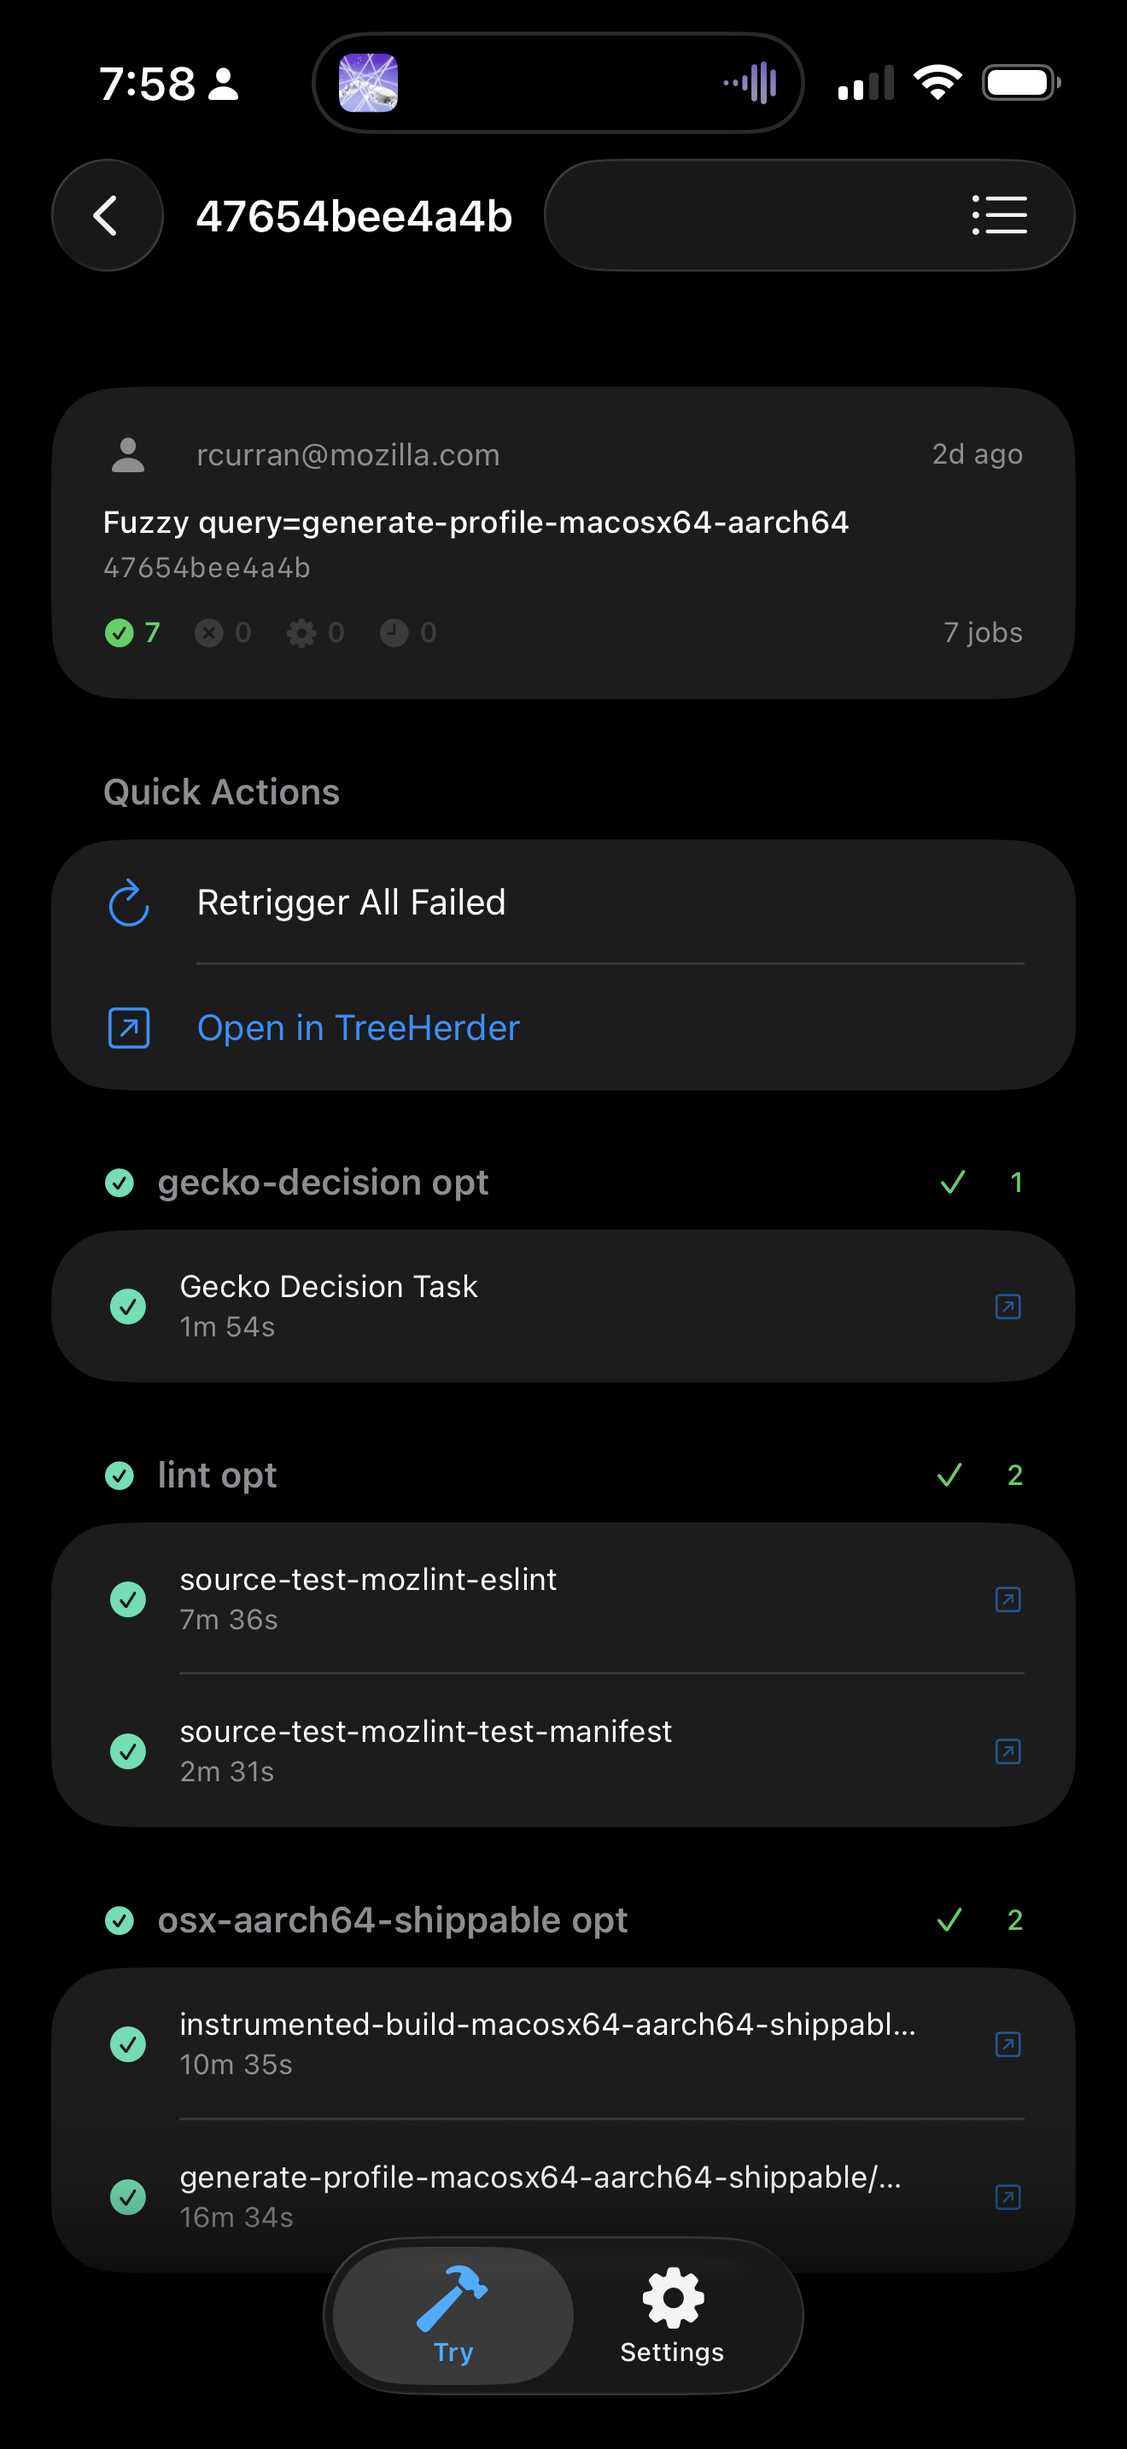
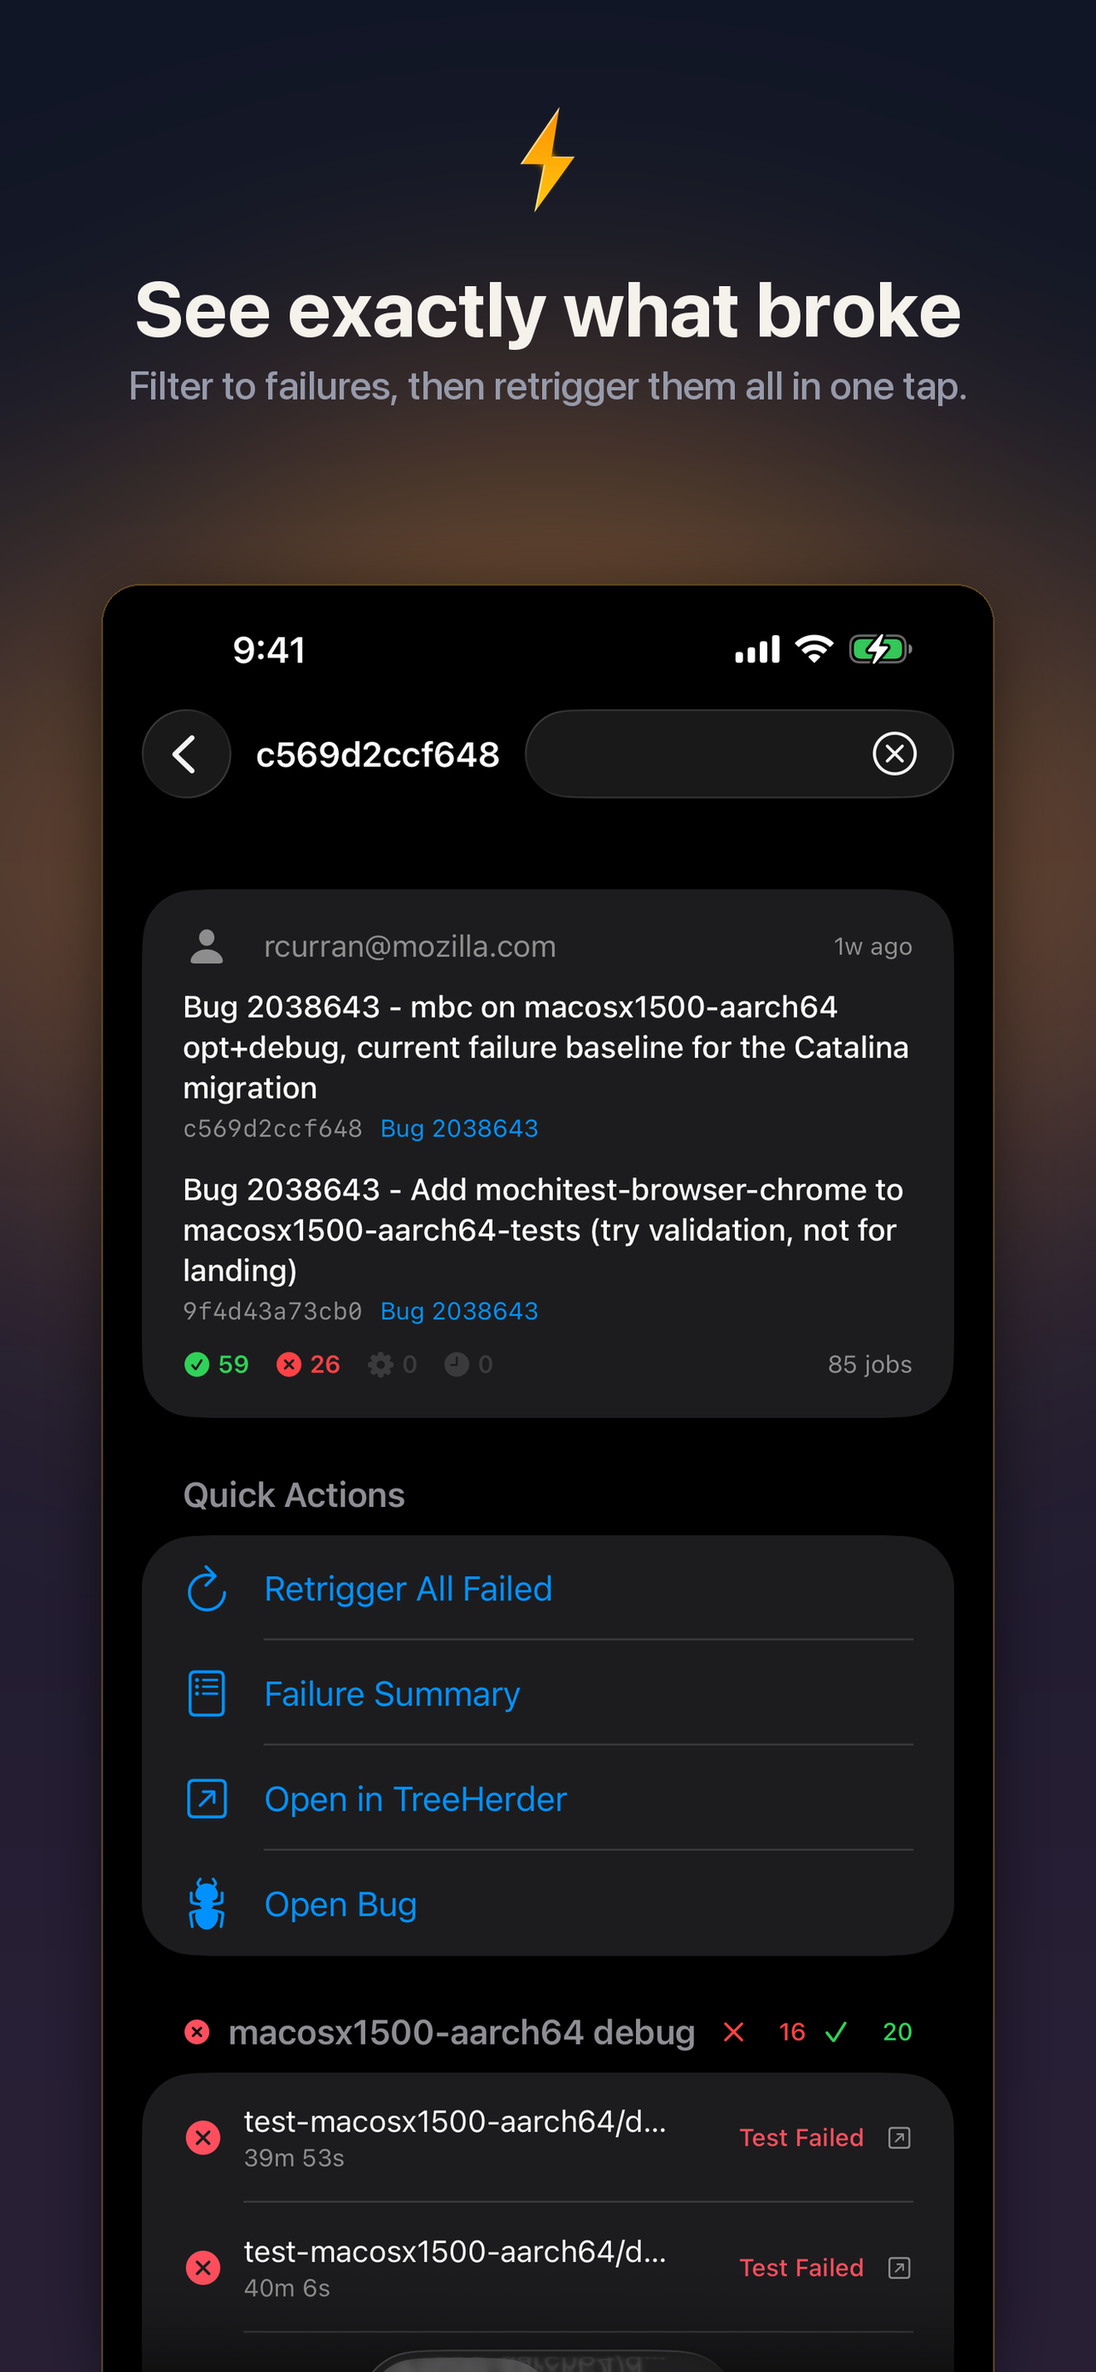
Rewrite the README for the 1.0 App Store launch
BuildWatch Moz shipped to the App Store on 2026-08-24. The README it shipped
with described an app that does not exist: multi-repo push lists across
mozilla-central/autoland/beta/release/esr128, a tree status banner backed by a
TreeStatus.swift that was never written, a BugzillaService.swift and a Bugzilla
API key setting, a MyPushesView.swift, a default-repository preference, and a
tier-2 visibility toggle. None of those are in the tree. The app has two tabs
and reads project/try/ only.

Replace it with a description of what actually shipped, and add the App Store
link, badges, and the five store screenshots (the three committed ones were
build-2 era).

Two things this stops papering over:

- Retrigger All Failed is in the 1.0 binary and cannot work. It POSTs
  unauthenticated to a TreeHerder endpoint that requires a Taskcluster OIDC
  session, and retriggerAllFailed() swallows the throw with `try?`, so the
  button does nothing and says nothing. Documented as such rather than listed
  as a feature.
- perf-and-accessibility-pass is complete, unmerged, and not in the store
  build. It gets its own clearly-labelled Unreleased section covering the
  delta refresh, the nonisolated service, PushSummary, the WCAG-AA palette,
  and the VoiceOver work, so nobody reads those as shipped behaviour.

Drop the MPL-2.0 badge: the repo has no LICENSE file to back it.

diff --git a/README.md b/README.md
@@ -1,61 +1,99 @@
-# BuildWatch
+<p align="center">
+  <img src="docs/app-icon.png" width="110" alt="BuildWatch app icon" />
+</p>
 
-A native iOS app for Mozilla engineers to monitor Firefox CI build status from their phone. Built for sheriffs, on-call engineers, and developers who want real-time build feedback without opening a laptop.
-
-![Platform](https://img.shields.io/badge/platform-iOS%2026%2B-blue)
-![Swift](https://img.shields.io/badge/swift-6-orange)
-![License](https://img.shields.io/badge/license-MPL--2.0-green)
+<h1 align="center">BuildWatch</h1>
 
 <p align="center">
-  <img src="docs/screenshots/try-pushes.png" width="220" alt="Try Pushes" />
-  <img src="docs/screenshots/push-detail.png" width="220" alt="Push Detail" />
-  <img src="docs/screenshots/settings.png" width="220" alt="Settings" />
+  <strong>Your Firefox try pushes, on your phone.</strong><br/>
+  Push to try, close the laptop, get on with your day.
 </p>
-<p align="center"><em>Try Pushes &nbsp;·&nbsp; Push Detail &nbsp;·&nbsp; Settings</em></p>
+
+<p align="center">
+  <a href="https://apps.apple.com/us/app/buildwatch-moz/id6759932755">
+    <img src="https://img.shields.io/badge/App%20Store-Download-0D96F6?logo=apple&logoColor=white" alt="Download on the App Store" />
+  </a>
+  <img src="https://img.shields.io/badge/version-1.0-brightgreen" alt="Version 1.0" />
+  <img src="https://img.shields.io/badge/platform-iOS%2026.2%2B-blue" alt="iOS 26.2+" />
+  <img src="https://img.shields.io/badge/iPhone%20%C2%B7%20iPad-universal-lightgrey" alt="Universal" />
+  <img src="https://img.shields.io/badge/price-free-success" alt="Free" />
+  <img src="https://img.shields.io/badge/dependencies-none-blueviolet" alt="No dependencies" />
+</p>
+
+<p align="center">
+  <a href="https://apps.apple.com/us/app/buildwatch-moz/id6759932755"><strong>Download BuildWatch Moz on the App Store →</strong></a>
+</p>
 
 ---
 
-## Features
+BuildWatch shows you every try push you've made, what's still running, what went red, and
+exactly which tests failed — without opening TreeHerder in a browser. Built for the Mozilla
+engineers who push to try a dozen times a day and don't want to babysit a tab.
 
-### Dashboard
-- Live push list across mozilla-central, autoland, beta, release, and esr128
-- Per-push platform status dots — color coded by worst result (green / red / orange / blue)
-- Failure count badge and animated spinner for in-progress builds
-- Tree status banner when the tree is closed or restricted
-- Pull-to-refresh with last-updated timestamp
-- Quick project switcher in the nav bar
+**Live on the App Store since 24 August 2026.** Free, no account, no tracking, ~1.2 MB.
+Every API it talks to is public, so it works off the corporate network with no VPN.
 
-### Push Detail
-- Full commit messages with clickable bug number links
-- Jobs grouped by platform (linux64, win64, macos, android-arm64, …)
-- Filter by All / Failures / Running
-- Swipe left on any job to retrigger it
-- **Retrigger All Failed** with a single tap
-- **Failure Summary** — groups failed jobs by test name, shows affected job counts and raw error lines from TreeHerder log data
-- All external links (TreeHerder, Taskcluster, Bugzilla) open in an in-app browser — tap Done to return instantly without leaving the app
-- Duration shown for every completed job
+<p align="center">
+  <img src="docs/screenshots/pushes.png" width="215" alt="Try push list with per-platform status dots" />
+  <img src="docs/screenshots/push-detail.png" width="215" alt="Push detail with quick actions and job list" />
+  <img src="docs/screenshots/failure-summary.png" width="215" alt="Failures grouped by test" />
+  <img src="docs/screenshots/watch.png" width="215" alt="Watched pushes marked with a bell" />
+</p>
 
-### My Pushes
-- Filtered view of your own pushes via the TreeHerder `?author=` API
-- Set your Mozilla email once in Settings
+---
+
+## What it does
+
+### The push list
+
+Your try pushes, newest first, filtered to you via TreeHerder's `?author=` API. Each row
+carries a row of per-platform status dots coloured by that platform's worst result, a red
+badge with the tier-1 failure count, a spinner while anything is still building, and how
+long ago you pushed.
+
+Swipe a row to **watch** it. When the last job resolves you get a local notification with
+the pass/fail count — sent time-sensitive if anything went red, so it cuts through a Focus
+mode. The watch is one-shot: it clears itself once it fires.
+
+### Push detail
+
+Tap through for the full commit messages, a counts bar (passed / failed / running /
+pending), and every job grouped by platform and build option. Filter to **All**,
+**Failures**, or **Running**.
+
+Tier-2 jobs are counted separately rather than folded in, because the platform groups below
+only list tier 1 — so the headline number always matches the dots next to it.
+
+Bug numbers in commit messages become tappable links. Every job row deep-links to its
+Taskcluster task. All external links (TreeHerder, Taskcluster, Bugzilla) open in an in-app
+Safari sheet — one tap to dismiss, no app switch.
+
+### Failure Summary
+
+The reason the app exists. It pulls TreeHerder's structured `text_log_errors` for up to 15
+failed jobs concurrently, groups them by test path, and ranks by how many jobs each one hit.
+Expand a row for the raw error line.
+
+A wall of red jobs collapses into "this one test broke across fifteen of them" — which is
+the question you actually had.
 
 ### Settings
-- LDAP / Mozilla email for the My Pushes tab
-- Bugzilla API key for filing bugs directly from a failure
-- Push notification opt-in (build failures, tree closures)
-- Default repository preference
-- Tier 2 job visibility toggle
+
+Your LDAP handle (just the handle — `rcurran`, not the full address) and a notification
+opt-in that shows its live authorization status.
 
 ---
 
-## Data Sources
+## Data sources
 
-| Source | Used For |
+| Source | Used for |
 |--------|----------|
-| [TreeHerder](https://treeherder.mozilla.org) | Push list, job results, retrigger actions, text log errors |
-| [TreeStatus](https://treestatus.prod.lando.prod.cloudops.mozgcp.net) | Tree open / closed / restricted status |
+| [TreeHerder](https://treeherder.mozilla.org) | Push list, job results, text log errors |
 | [Taskcluster](https://firefox-ci-tc.services.mozilla.com) | Task deep links |
-| [Bugzilla](https://bugzilla.mozilla.org) | Bug links from commit messages, filing new bugs |
+| [Bugzilla](https://bugzilla.mozilla.org) | Bug links parsed out of commit messages |
+
+All read-only, all public, all unauthenticated. BuildWatch stores nothing but your LDAP
+handle and your watch list, both in `UserDefaults` on-device.
 
 ---
 
@@ -63,63 +101,157 @@ A native iOS app for Mozilla engineers to monitor Firefox CI build status from t
 
 ```
 BuildWatch/
+├── BuildWatchApp.swift        — app entry, notification delegate + deep link
+├── ContentView.swift          — two-tab shell (Try / Settings)
+├── Extensions.swift           — relative-time helpers, SFSafariViewController wrapper
 ├── Models/
-│   ├── Push.swift          — Push + PushRevision
-│   ├── Job.swift           — Job, JobResult, JobState, PlatformGroup
-│   ├── TreeStatus.swift    — Tree open/closed state
-│   └── FailureLine.swift   — TextLogError, FailureGroup
+│   ├── Push.swift             — Push, PushRevision, try-message cleanup
+│   ├── Job.swift              — Job, JobResult, JobState, PlatformGroup
+│   └── FailureLine.swift      — TextLogError, FailureGroup
 ├── Services/
-│   ├── TreeHerderService.swift   — All TreeHerder + TreeStatus API calls
-│   └── BugzillaService.swift     — Bug filing
+│   └── TreeHerderService.swift    — TreeHerder API, compact-job parser
 ├── ViewModels/
-│   └── DashboardViewModel.swift  — @Observable state, drives all three tabs
+│   └── DashboardViewModel.swift   — @Observable state for both tabs
 └── Views/
-    ├── DashboardView.swift       — Push list
-    ├── PushDetailView.swift      — Jobs, quick actions
-    ├── FailureSummaryView.swift  — Grouped failure analysis sheet
-    ├── MyPushesView.swift        — Filtered to your pushes
-    └── SettingsView.swift        — Preferences
+    ├── DashboardView.swift        — push list (TryPushesView)
+    ├── PushDetailView.swift       — jobs, quick actions, counts bar
+    ├── FailureSummaryView.swift   — grouped failure sheet
+    └── SettingsView.swift         — preferences
 ```
 
-State is managed with Swift's `@Observable` macro. All networking uses `async/await` with `URLSession`. The TreeHerder jobs response uses a compact `[[Any]]` format that's parsed with `JSONSerialization` and an index map built from the `job_property_names` field.
+SwiftUI throughout, state via the `@Observable` macro, networking via `async/await` on
+`URLSession`. **No external dependencies and no package manager** — clone, open, run.
+
+**The compact job format.** TreeHerder's `/jobs/?return_type=list` endpoint doesn't return
+objects. It returns a `job_property_names` array and then every job as a bare positional
+`[Any]` row — 37 columns, of which BuildWatch reads 14. `Codable` can't express that, so the
+parser builds a column map from the header once per response and indexes `JSONSerialization`
+output directly.
+
+A busy try push is ~750 jobs and 400 KB; a big one runs past 1,200 jobs and 676 KB. That
+size is the constraint every design decision below is working against.
 
 ---
 
 ## Requirements
 
 - Xcode 26+
-- iOS 26+ device or simulator
-- Mozilla network access (or VPN) is not required — all APIs are public
-
----
+- iOS 26.2+ (iPhone or iPad — the App Store build is universal)
+- No Mozilla network access or VPN required
 
 ## Building
 
-1. Clone the repo
-2. Open `BuildWatch.xcodeproj`
-3. Select your team in Signing & Capabilities
-4. Run on device or simulator
+```bash
+git clone https://github.com/mozilla-platform-ops/BuildWatch.git
+cd BuildWatch
+open BuildWatch.xcodeproj
+```
 
-No external dependencies. No package manager.
+Set your team under Signing & Capabilities, then run. That's the whole setup.
+
+On first launch, put your LDAP handle in **Settings → Profile** — the push list is empty
+until it knows who you are.
 
 ---
 
-## Optional Setup
+## Not implemented, on purpose
 
-**My Pushes tab** — add your `@mozilla.com` email in Settings → Profile.
+**Retrigger, acknowledge, and classify.** These are the obvious next features and they are
+all blocked on the same thing: TreeHerder gates every write behind a Taskcluster OIDC
+session, which BuildWatch does not implement.
 
-**Bug filing** — generate a Bugzilla API key at [bugzilla.mozilla.org → Preferences → API Keys](https://bugzilla.mozilla.org/userprefs.cgi?tab=apikey) and paste it in Settings → Bugzilla Integration.
+Version 1.0 ships a **Retrigger All Failed** button that posts unauthenticated and is
+rejected server-side, failing quietly. It should not have shipped in that state; it is
+removed on the branch described below, and no write action will return until sign-in lands
+behind it.
 
-**Retrigger / Acknowledge** — these actions call authenticated TreeHerder endpoints. Full support requires a Taskcluster OIDC session (coming soon).
+---
+
+## Unreleased — performance and accessibility pass
+
+Branch [`perf-and-accessibility-pass`](https://github.com/mozilla-platform-ops/BuildWatch/tree/perf-and-accessibility-pass).
+Complete and unmerged, **not** in the 1.0 App Store build.
+
+### Incremental refresh
+
+1.0 re-downloads every job on every read. The branch keeps TreeHerder's own `last_modified`
+high-water mark per push and passes it back as `last_modified__gt`, so a poll carries only
+the rows whose state actually moved — roughly **142 KB down to 1.7 KB** on a 1,262-job push.
+
+Two subtleties, both load-bearing:
+
+- TreeHerder parses that filter at **second** granularity, making it inclusive of the
+  watermark's own second. The client rewinds the mark two seconds anyway, so a row written
+  in the same second as the previous read cannot fall through the gap. Re-sending a handful
+  of rows is far cheaper than showing a stale result.
+- The watermark is always the server's string, never a device clock reading, so a phone with
+  skewed time can't silently skip updates.
+
+### Off the main thread
+
+The project builds with `SWIFT_DEFAULT_ACTOR_ISOLATION = MainActor`. That default quietly
+pinned every request *and* every JSON parse to the main actor — including deserialising a
+676 KB payload with the user's finger still on the screen. Marking `TreeHerderService`
+`nonisolated` moves the wait and the parse off; only the finished `Sendable` result crosses
+back.
+
+### Precomputed derived state
+
+Platform grouping and pass/fail/running counts used to be computed properties evaluated
+inside `body`. Rendering one push row ran three full passes over that push's job array, and
+because `jobsByPush` is `@Observable`, one push's jobs arriving invalidated every visible
+row. `PushSummary` computes all of it once at ingest; the view does an O(1) lookup.
+
+### Legible in light mode
+
+Three of the four original status colours failed WCAG AA non-text contrast (3:1) on a white
+list row — success green sat at **1.67:1**, effectively invisible. `StatusPalette` is now a
+light/dark pair per colour: darkened light variants at 4.4:1–5.7:1 on white, the original
+bright variants unchanged in dark mode.
+
+### Accessibility
+
+Full VoiceOver support — each push row speaks as one sentence carrying its title, author,
+age, and the status the dots encode (previously the dots announced as nothing at all).
+Status dots switch to distinct silhouettes (✓ ✗ ⋯ −) under *Differentiate Without Color* and
+scale with Dynamic Type. Loading shimmer respects *Reduce Motion*.
+
+### Also on the branch
+
+- **Adaptive background polling** — 30s while anything is building, 120s once settled,
+  paused when the app isn't frontmost. The automatic tick only re-reads the head of the list
+  plus anything watched; a manual pull re-reads everything on screen. 1.0 polls not at all,
+  and its pull-to-refresh only refreshed *watched* pushes, so unwatched status dots stayed
+  frozen at whatever they were on first load.
+- **Live elapsed time** on running jobs — 1.0 showed nothing, so a job 20 seconds in and a
+  job wedged for 40 minutes looked identical.
+- **Haptics** — distinct feedback for refresh, watch, pass, and fail.
+- **Retrigger removed** rather than left failing silently.
+
+### Benchmarks
+
+`Benchmarks/ParserBenchmark.swift` is a standalone executable that runs the old and new
+parsers against a real TreeHerder payload and asserts they produce identical rows:
+
+```bash
+Benchmarks/fetch-fixture.sh /tmp/push.json
+swiftc -O Benchmarks/ParserBenchmark.swift -o /tmp/bwbench
+/tmp/bwbench /tmp/push.json
+```
 
 ---
 
 ## Roadmap
 
-- [ ] Push notifications for build failures via FCM
-- [ ] Acknowledge / classify failures
+- [x] Local notifications when a watched push finishes
+- [x] Failure Summary grouped by test
+- [x] Ship 1.0 to the App Store
+- [ ] Merge the performance and accessibility pass
+- [ ] Taskcluster OIDC sign-in — the prerequisite for every write action below
+- [ ] Retrigger jobs (needs sign-in)
+- [ ] Acknowledge / classify failures (needs sign-in)
 - [ ] Backout via Lando API
-- [ ] File bug pre-filled with failure details
+- [ ] File a bug pre-filled with failure details
 - [ ] WebSocket live updates from TreeHerder
 - [ ] Intermittent failure history
 - [ ] Sheriff mode — tree management quick actions
@@ -129,8 +261,17 @@ No external dependencies. No package manager.
 
 ## Contributing
 
-PRs welcome. File issues at [bugzilla.mozilla.org](https://bugzilla.mozilla.org) under `Firefox :: Developer Tools`.
+PRs welcome. File issues at [bugzilla.mozilla.org](https://bugzilla.mozilla.org) under
+`Firefox :: Developer Tools`.
 
 ---
 
-*Built by [@rcurranmoz](https://github.com/rcurranmoz) · Maintained at [mozilla-platform-ops/BuildWatch](https://github.com/mozilla-platform-ops/BuildWatch) · Powered by [TreeHerder](https://treeherder.mozilla.org)*
+<p align="center">
+  <a href="https://apps.apple.com/us/app/buildwatch-moz/id6759932755">BuildWatch Moz on the App Store</a>
+  &nbsp;·&nbsp;
+  Built by <a href="https://github.com/rcurranmoz">@rcurranmoz</a>
+  &nbsp;·&nbsp;
+  <a href="https://github.com/mozilla-platform-ops/BuildWatch">mozilla-platform-ops/BuildWatch</a>
+  &nbsp;·&nbsp;
+  Powered by <a href="https://treeherder.mozilla.org">TreeHerder</a>
+</p>
